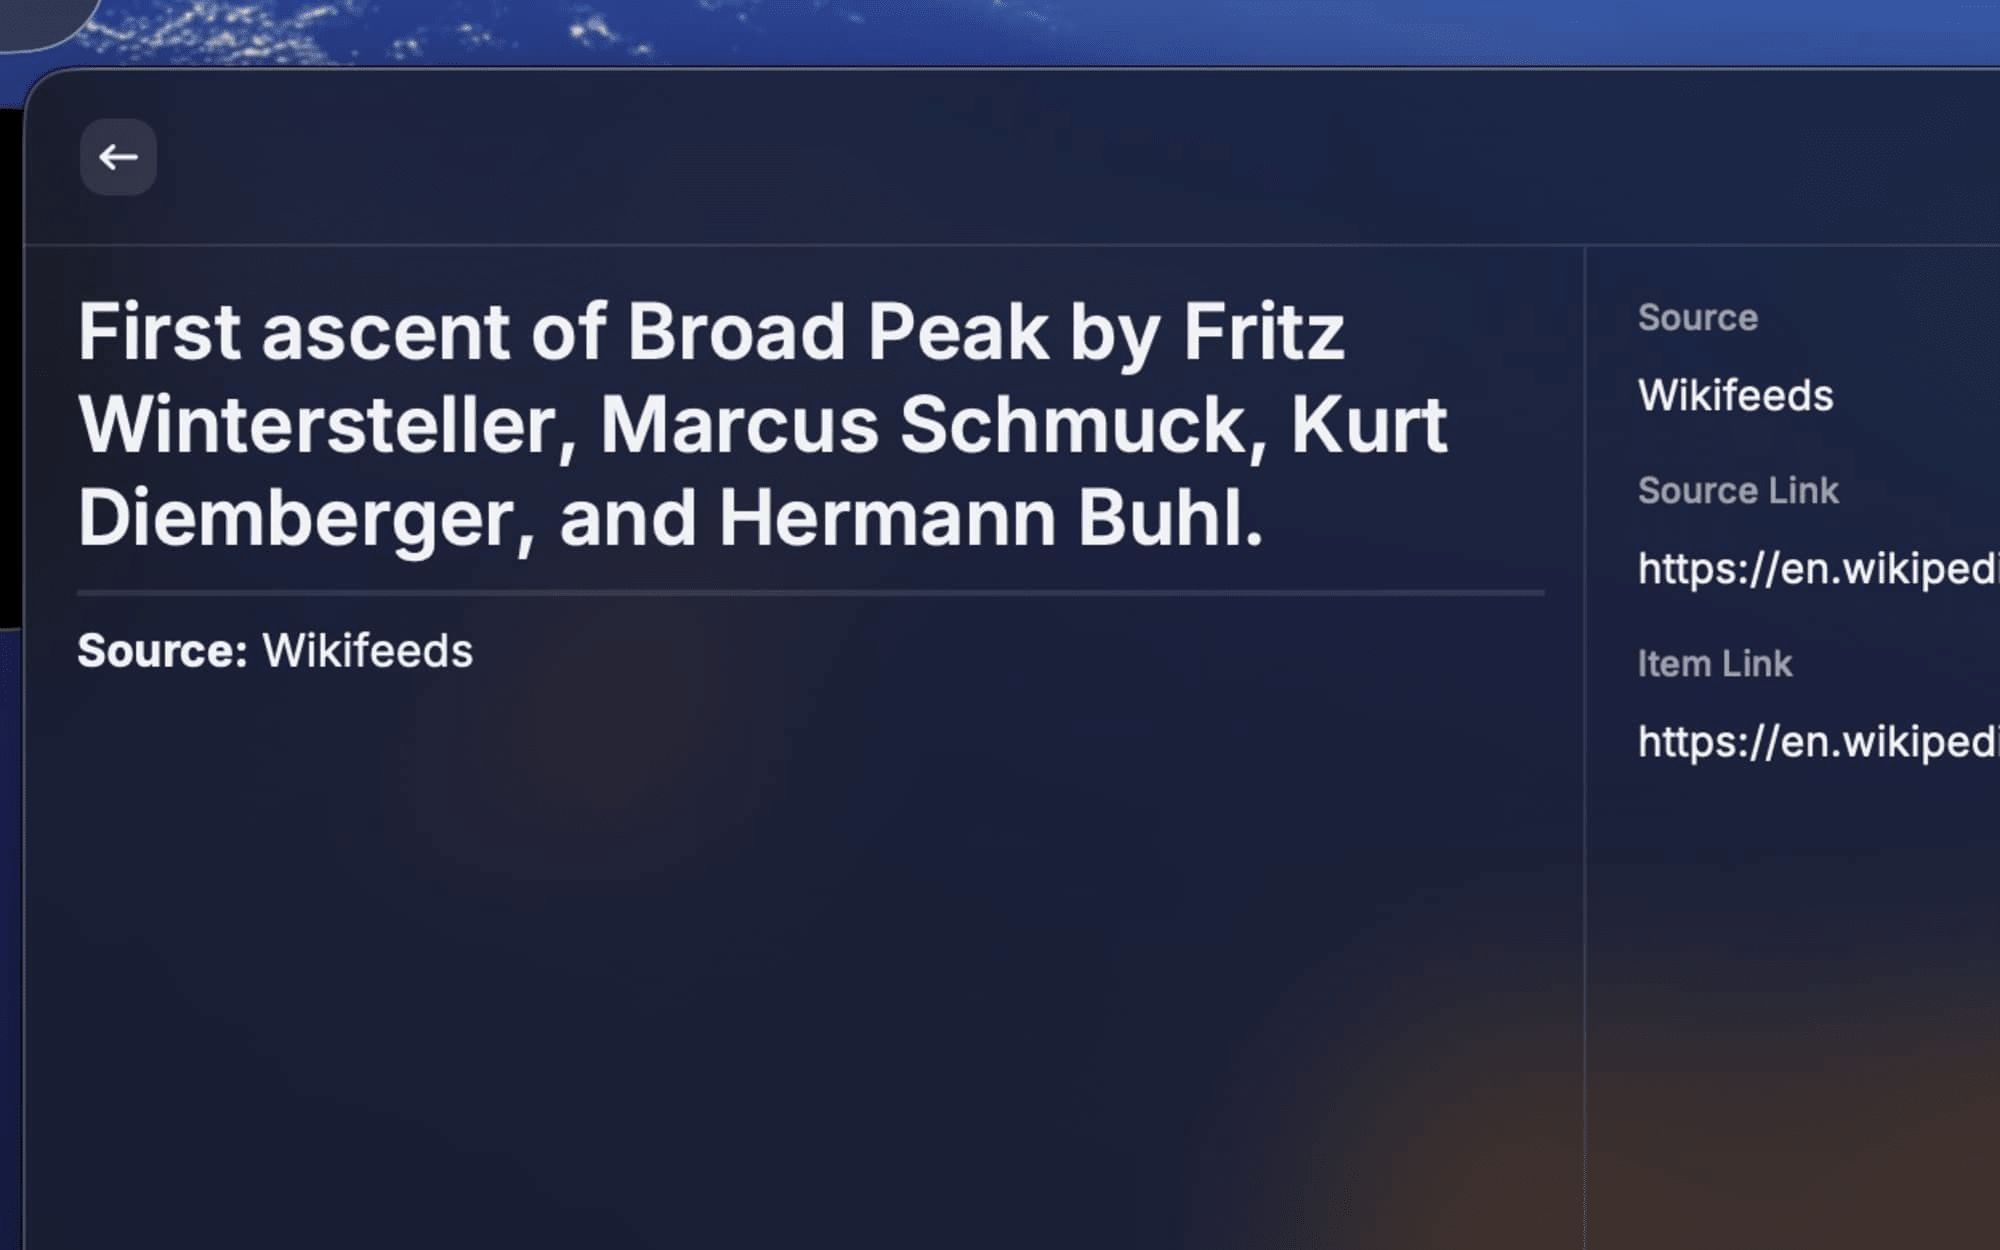
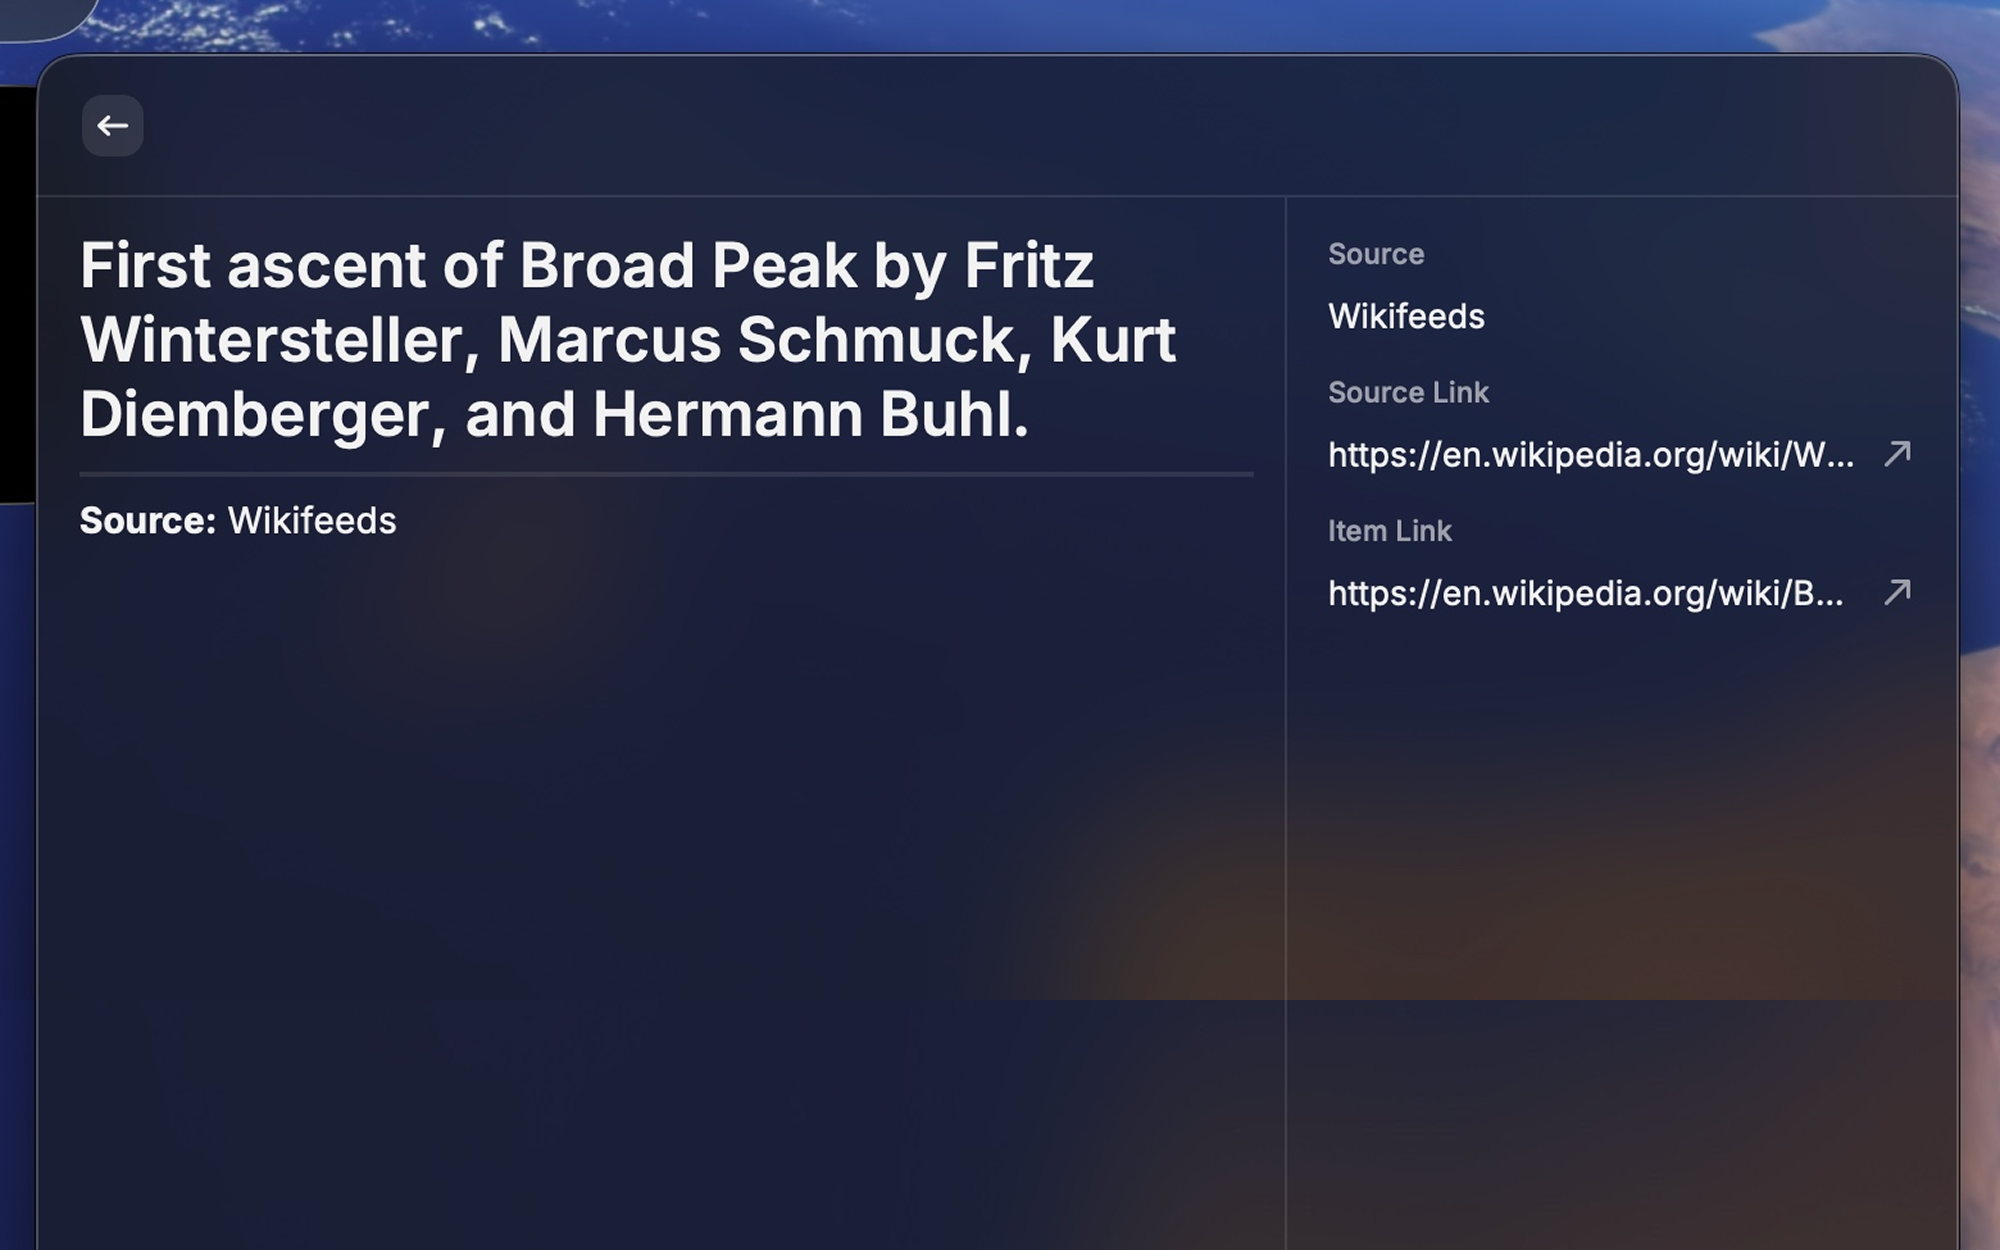
fix(test): update tests

diff --git a/src/random-fact/sources/index.test.ts b/src/random-fact/sources/index.test.ts
@@ -5,7 +5,6 @@ import {
   RANDOM_FACT_SOURCES,
   USELESS_FACTS_SOURCE,
   WIKIFEEDS_SOURCE,
-  ZEN_QUOTES_SOURCE,
   pickRandomFactSource,
 } from ".";
 
@@ -25,13 +24,6 @@ describe("random-fact sources", () => {
   });
 
   it("normalizes quote and history feeds", () => {
-    expect(ZEN_QUOTES_SOURCE.parse([{ a: "Zen", q: "Breathe." }])).toEqual([
-      {
-        description: "- Zen",
-        title: "Breathe.",
-      },
-    ]);
-
     expect(
       WIKIFEEDS_SOURCE.parse({
         events: [

diff --git a/README.md b/README.md
@@ -12,31 +12,6 @@ Built for quick workflows, everyday use for everybody
 Lucky Draw is designed around quick, lightweight command flows and compact
 result views.
 
-## Screenshots
-
-These screenshots show the main command launcher and a few representative
-flows.
-
-### Command list
-
-![Lucky Draw command list](assets/SCR-20260608-rkjg.png)
-
-### Pick random item
-
-![Pick Random Item composer](assets/SCR-20260608-rkrq.png)
-
-### Flip coin
-
-![Flip Coin result](assets/SCR-20260608-rkvx.jpeg)
-
-### Generate number
-
-![Generate Number form](assets/SCR-20260608-rkxy.jpeg)
-
-### Random fact
-
-![Random Fact result](assets/SCR-20260608-rlfx.png)
-
 ## Currently available commands
 
 These are the Raycast commands included in this extension:
@@ -47,6 +22,20 @@ These are the Raycast commands included in this extension:
 - `pick-random-item` - Pick Random Item
 - `spin-decision-wheel` - Spin Decision Wheel
 - `random-fact` - Random Fact
+
+## Screenshots
+
+These screenshots show the main command launcher and a few representative
+flows.
+
+### Examples
+
+![Lucky Draw command list](metadata/large-lucky-draw.png)
+
+### Random fact
+
+![Random Fact result](metadata/random-fact.png)
+
 
 ## Development scripts
 
